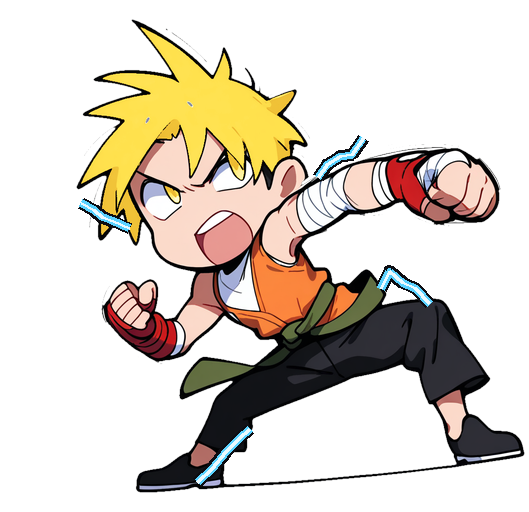
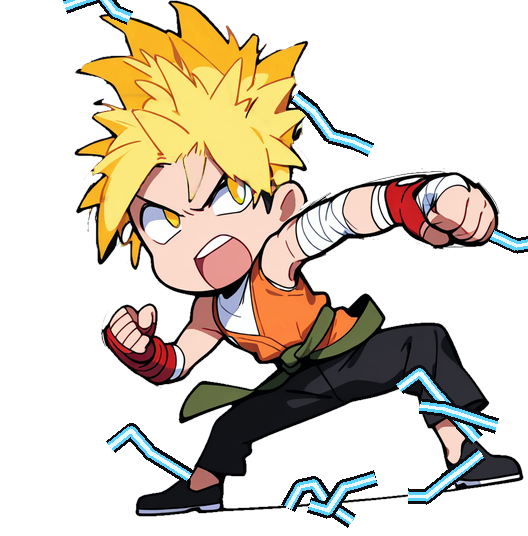
Kaito: standing spiky hair and more lightning for Super Form 2, long spiky hair for Super Form 3
- Forms 2 and 3 repainted with the local AI from guides, keeping his face, clothes and pose
- Bigger, more numerous lightning sparks on forms 2 and 3
- Pictures taller than their square (tall hair) keep the base picture's scale, and the feet stay in place

diff --git a/src/scenes/BootScene.js b/src/scenes/BootScene.js
@@ -71,32 +71,35 @@ export default class BootScene extends Phaser.Scene {
       const img = this.textures.get(raw).getSourceImage();
       const size = artSize(key);
       let scale = Math.min(size / img.width, size / img.height);
-      // An attack picture (kaito_0_attack) is shrunk like its normal picture, so the character keeps
-      // its size; a stretched-out arm or leg may make it wider than the square
-      const plainKey = `art_${key.replace(/_attack$/, '')}`;
-      if (key.endsWith('_attack') && this.textures.exists(plainKey)) {
-        const plain = this.textures.get(plainKey).getSourceImage();
-        scale = Math.min(size / plain.width, size / plain.height);
+      // A fighter's other pictures (kaito_2, kaito_0_attack) are shrunk like its base picture (kaito_0),
+      // so the character keeps its size; a stretched-out arm or tall hair may stick out of the square
+      const baseKey = `art_${key.replace(/_\d+(_attack)?$/, '_0')}`;
+      if (baseKey !== raw && this.textures.exists(baseKey)) {
+        const base = this.textures.get(baseKey).getSourceImage();
+        scale = Math.min(size / base.width, size / base.height);
       }
       const w = img.width * scale;
       const h = img.height * scale;
       const cw = Math.max(size, Math.ceil(w));
+      // Taller than the square: room is added above and below alike, so the feet stay where they were
+      const over = Math.max(0, Math.ceil(h - size));
+      const ch = size + over * 2;
       if (this.textures.exists(key)) this.textures.remove(key);
-      const canvas = this.textures.createCanvas(key, cw, size);
+      const canvas = this.textures.createCanvas(key, cw, ch);
       const c = canvas.context;
       c.imageSmoothingQuality = 'high';
       const x = (cw - w) / 2;
-      const y = size - h;
+      const y = over + size - h;
       // A dark outline around the picture, so it stands out on the map like the drawn art
       const shape = document.createElement('canvas');
       shape.width = cw;
-      shape.height = size;
+      shape.height = ch;
       const sc = shape.getContext('2d');
       sc.imageSmoothingQuality = 'high';
       sc.drawImage(img, x, y, w, h);
       sc.globalCompositeOperation = 'source-in';
       sc.fillStyle = '#0d0d12';
-      sc.fillRect(0, 0, cw, size);
+      sc.fillRect(0, 0, cw, ch);
       for (const [dx, dy] of [[-1, 0], [1, 0], [0, -1], [0, 1], [-1, -1], [1, -1], [-1, 1], [1, 1]]) c.drawImage(shape, dx, dy);
       c.drawImage(img, x, y, w, h);
       canvas.refresh();

diff --git a/sw.js b/sw.js
@@ -3,7 +3,7 @@
 // when online, so the next launch gets the newest version.
 // Bump CACHE when the file list changes.
 
-const CACHE = 'ki-defenders-v22';
+const CACHE = 'ki-defenders-v23';
 
 const FILES = [
   './',
